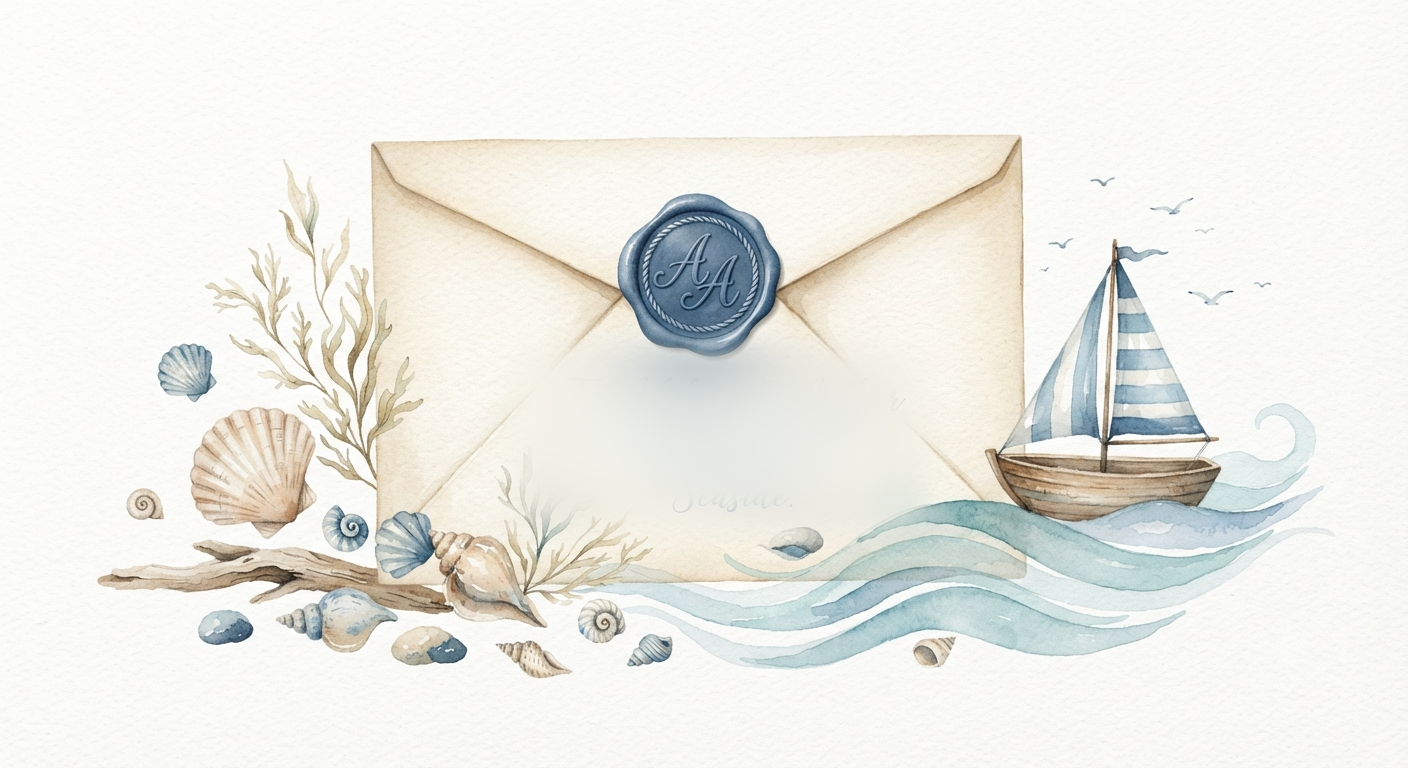
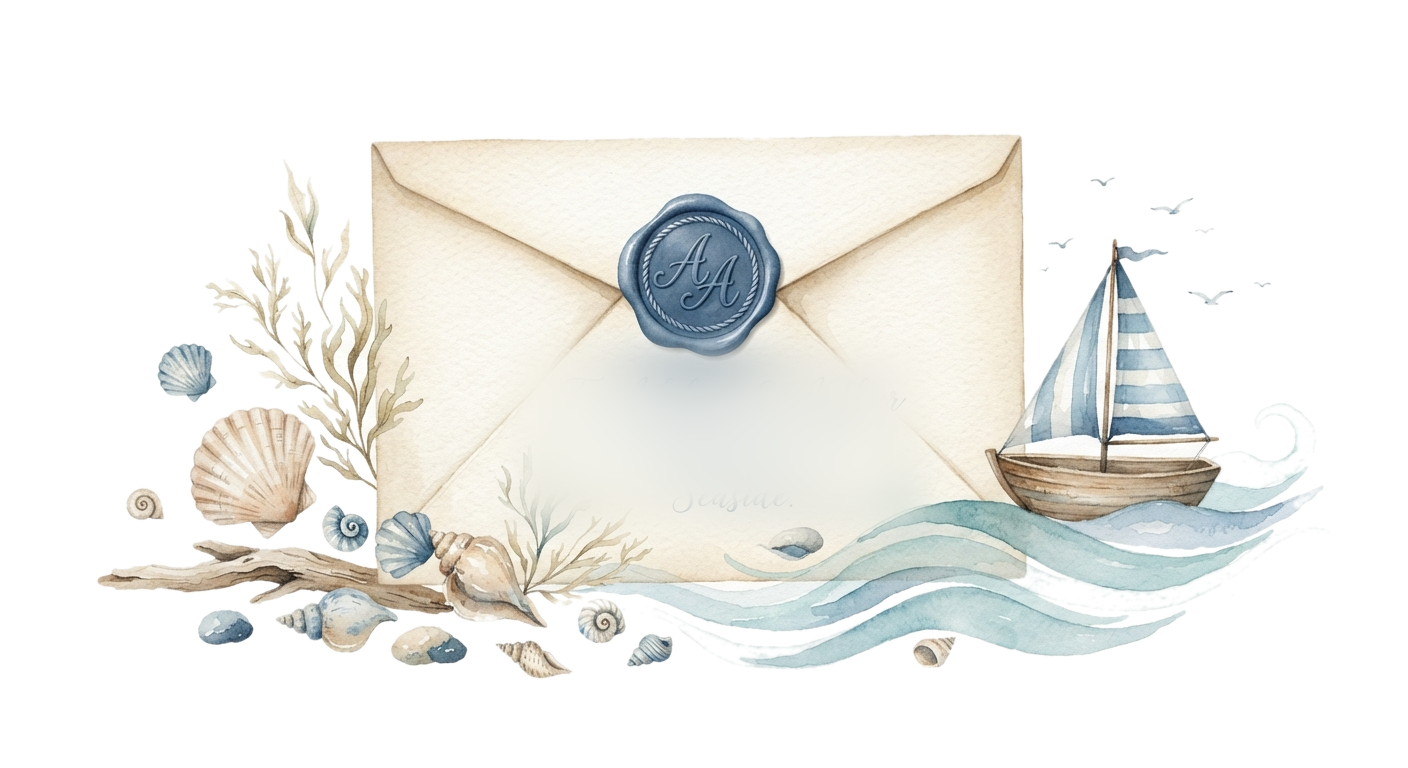
Remove white border on hero illustration, add church/compass sketches, switch to Cyrillic-friendly premium fonts, add watercolor page wash

diff --git a/index.html b/index.html
@@ -6,7 +6,7 @@
 <title>Anna &amp; Artem — Wedding Invitation</title>
 <link rel="preconnect" href="https://fonts.googleapis.com">
 <link rel="preconnect" href="https://fonts.gstatic.com" crossorigin>
-<link href="https://fonts.googleapis.com/css2?family=Cinzel:wght@500;600&family=EB+Garamond:ital,wght@0,400;0,600;1,400&family=Great+Vibes&family=Marck+Script&family=PT+Serif:ital,wght@0,400;0,700;1,400&display=swap" rel="stylesheet">
+<link href="https://fonts.googleapis.com/css2?family=Playfair+Display:wght@500;600;700&family=Cormorant+Garamond:ital,wght@0,400;0,500;0,600;1,400&family=Bad+Script&family=Marck+Script&family=PT+Serif:ital,wght@0,400;0,700;1,400&display=swap" rel="stylesheet">
 <style>
   :root {
     --bg: #F5F1EA;
@@ -29,12 +29,13 @@
     margin: 0; padding: 0;
     background: var(--bg);
     color: var(--ink);
-    font-family: 'EB Garamond', 'PT Serif', serif;
+    font-family: 'Cormorant Garamond', 'PT Serif', serif;
+    font-size: 19px;
     overflow-x: hidden;
   }
   body.locked { overflow: hidden; height: 100vh; }
-  h1, h2, .script { font-family: 'Great Vibes', 'Marck Script', cursive; font-weight: 400; }
-  h2.heading { font-family: 'Cinzel', 'PT Serif', serif; }
+  h1, h2, .script { font-family: 'Bad Script', 'Marck Script', cursive; font-weight: 400; }
+  h2.heading { font-family: 'Playfair Display', 'PT Serif', serif; }
 
   /* ---- Paper texture (shared) ---- */
   .paper-texture {
@@ -57,7 +58,7 @@
   #lang-switch button {
     border: none; background: transparent;
     color: var(--marine);
-    font-family: 'EB Garamond', serif; font-size: 13px;
+    font-family: 'Cormorant Garamond', serif; font-size: 13px;
     letter-spacing: 0.5px; padding: 6px 12px;
     border-radius: 14px; cursor: pointer;
     transition: background .25s, color .25s;
@@ -113,7 +114,7 @@
     color: var(--petrol);
   }
   .hero-text-names {
-    font-family: 'Great Vibes', 'Marck Script', cursive;
+    font-family: 'Bad Script', 'Marck Script', cursive;
     font-size: clamp(20px, 4.6cqw, 30px);
     color: var(--marine);
     margin-top: 0.3em;
@@ -153,7 +154,7 @@
     font-size: 20px; letter-spacing: 1.5px; color: var(--ink); margin-top: 6px;
   }
   .invite-inner .quote {
-    font-family: 'Great Vibes', 'Marck Script', cursive;
+    font-family: 'Bad Script', 'Marck Script', cursive;
     font-size: 27px; color: var(--petrol);
     line-height: 1.5; margin: 24px 0 0;
   }
@@ -168,7 +169,7 @@
   .countdown { display: flex; justify-content: center; gap: 30px; margin-top: 28px; }
   .countdown-unit { display: flex; flex-direction: column; align-items: center; }
   .countdown-num {
-    font-family: 'Cinzel', 'PT Serif', serif; font-size: 34px; font-weight: 600;
+    font-family: 'Playfair Display', 'PT Serif', serif; font-size: 34px; font-weight: 600;
     color: var(--marine); min-width: 1.4em; text-align: center;
   }
   .countdown-label {
@@ -197,6 +198,20 @@
 
   /* ---- Scrollable pages ---- */
   #pages { position: relative; z-index: 10; }
+  #pages::before {
+    content: ""; position: fixed; inset: 0; z-index: -1; pointer-events: none;
+    background:
+      radial-gradient(ellipse 480px 620px at -8% 8%, rgba(94,127,133,0.16), transparent 70%),
+      radial-gradient(ellipse 420px 560px at 106% 14%, rgba(94,127,133,0.14), transparent 70%),
+      radial-gradient(ellipse 460px 580px at -6% 96%, rgba(201,161,75,0.13), transparent 70%),
+      radial-gradient(ellipse 440px 560px at 104% 88%, rgba(53,92,125,0.12), transparent 70%),
+      var(--bg);
+  }
+  .page-watercolor {
+    position: absolute; z-index: -1; pointer-events: none;
+    filter: drop-shadow(0 6px 14px rgba(60,45,25,0.08));
+  }
+  .page-gull { position: absolute; opacity: .55; pointer-events: none; }
   .page {
     min-height: 100vh; width: 100%;
     display: flex; align-items: center; justify-content: center;
@@ -218,8 +233,8 @@
     content: ""; display: block; width: 46px; height: 2px;
     background: var(--gold); margin: 12px auto 0;
   }
-  .quote { font-family: 'Great Vibes', 'Marck Script', cursive; font-size: 24px; color: var(--petrol); line-height: 1.5; margin: 22px 0 6px; }
-  .cliff-illustration { width: 100%; max-width: 420px; height: auto; margin: 0 auto 20px; display: block; }
+  .quote { font-family: 'Bad Script', 'Marck Script', cursive; font-size: 24px; color: var(--petrol); line-height: 1.5; margin: 22px 0 6px; }
+  .cliff-illustration { width: 100%; max-width: 520px; height: auto; margin: 0 auto 22px; display: block; }
   .info-line { font-size: 18px; margin: 8px 0; }
   .info-line b { color: var(--gold); }
   .note { margin-top: 18px; font-size: 15px; color: var(--petrol); font-style: italic; }
@@ -228,7 +243,7 @@
   .day .day-title { font-size: 19px; color: var(--marine); margin-bottom: 6px; font-weight: 700; }
   .day .events { font-size: 15.5px; line-height: 1.7; }
   .day .events .time { color: var(--gold); font-weight: 700; margin-right: 6px; }
-  .signature { margin-top: 26px; font-family: 'Great Vibes', 'Marck Script', cursive; font-size: 28px; color: var(--accent); }
+  .signature { margin-top: 26px; font-family: 'Bad Script', 'Marck Script', cursive; font-size: 28px; color: var(--accent); }
   .placeholder-tag {
     display: inline-block; margin-top: 14px; font-size: 12px;
     color: var(--petrol); letter-spacing: 1px; opacity: .6; font-style: italic;
@@ -291,16 +306,7 @@
 
   <section class="page" id="page-story">
     <div class="page-inner">
-      <svg class="cliff-illustration" viewBox="0 0 400 140" xmlns="http://www.w3.org/2000/svg">
-        <path d="M0,110 Q50,90 100,108 T200,105 T300,112 T400,102" fill="none" stroke="#5E7F85" stroke-width="2" opacity="0.6"/>
-        <path d="M0,122 Q50,104 100,120 T200,118 T300,124 T400,116" fill="none" stroke="#D9C7A0" stroke-width="2" opacity="0.7"/>
-        <g transform="translate(200,50)">
-          <circle r="26" fill="none" stroke="#355C7D" stroke-width="1"/>
-          <line x1="0" y1="-26" x2="0" y2="26" stroke="#355C7D" stroke-width="0.7"/>
-          <line x1="-26" y1="0" x2="26" y2="0" stroke="#355C7D" stroke-width="0.7"/>
-          <polygon points="0,-14 5,0 0,14 -5,0" fill="#8A1C2B"/>
-        </g>
-      </svg>
+      <img class="cliff-illustration" src="assets/ill-story.png" alt="">
       <h2 class="heading" data-i18n="p_story_heading">Наша история</h2>
       <p style="font-size:17px; line-height:1.7;" data-i18n="p_story_text">Здесь будет история нашей любви — как мы встретились, полюбили друг друга и решили сказать «да» на краю земли.</p>
       <span class="placeholder-tag" data-i18n="placeholder_tag">текст появится позже</span>
@@ -309,17 +315,7 @@
 
   <section class="page" id="page-location">
     <div class="page-inner">
-      <svg class="cliff-illustration" viewBox="0 0 400 180" xmlns="http://www.w3.org/2000/svg">
-        <rect x="0" y="0" width="400" height="180" fill="none"/>
-        <path d="M0,140 L60,120 L110,150 L170,90 L230,140 L290,70 L340,130 L400,110 L400,180 L0,180 Z" fill="#F5F1EA" stroke="#D9C7A0" stroke-width="2"/>
-        <rect x="255" y="35" width="22" height="40" fill="#e7d9b8" stroke="#9c6b2e" stroke-width="1.5"/>
-        <polygon points="266,10 245,35 287,35" fill="#C9A14B" stroke="#9c6b2e" stroke-width="1.5"/>
-        <rect x="263" y="50" width="6" height="14" fill="#9c6b2e"/>
-        <line x1="266" y1="10" x2="266" y2="0" stroke="#9c6b2e" stroke-width="2"/>
-        <path d="M0,150 Q100,175 200,150 T400,150" fill="none" stroke="#5E7F85" stroke-width="2" opacity="0.6"/>
-        <path d="M40,45 q6,-6 12,0" fill="none" stroke="#355C7D" stroke-width="1.4" opacity="0.6"/>
-        <path d="M330,30 q6,-6 12,0" fill="none" stroke="#355C7D" stroke-width="1.4" opacity="0.6"/>
-      </svg>
+      <img class="cliff-illustration" src="assets/ill-location.png" alt="">
       <h2 class="heading" data-i18n="p2_heading">Место и время</h2>
       <div class="info-line"><b data-i18n="p2_church">Højerup Gamle Kirke</b></div>
       <div class="info-line" data-i18n="p2_location">Stevns Klint, Дания</div>
